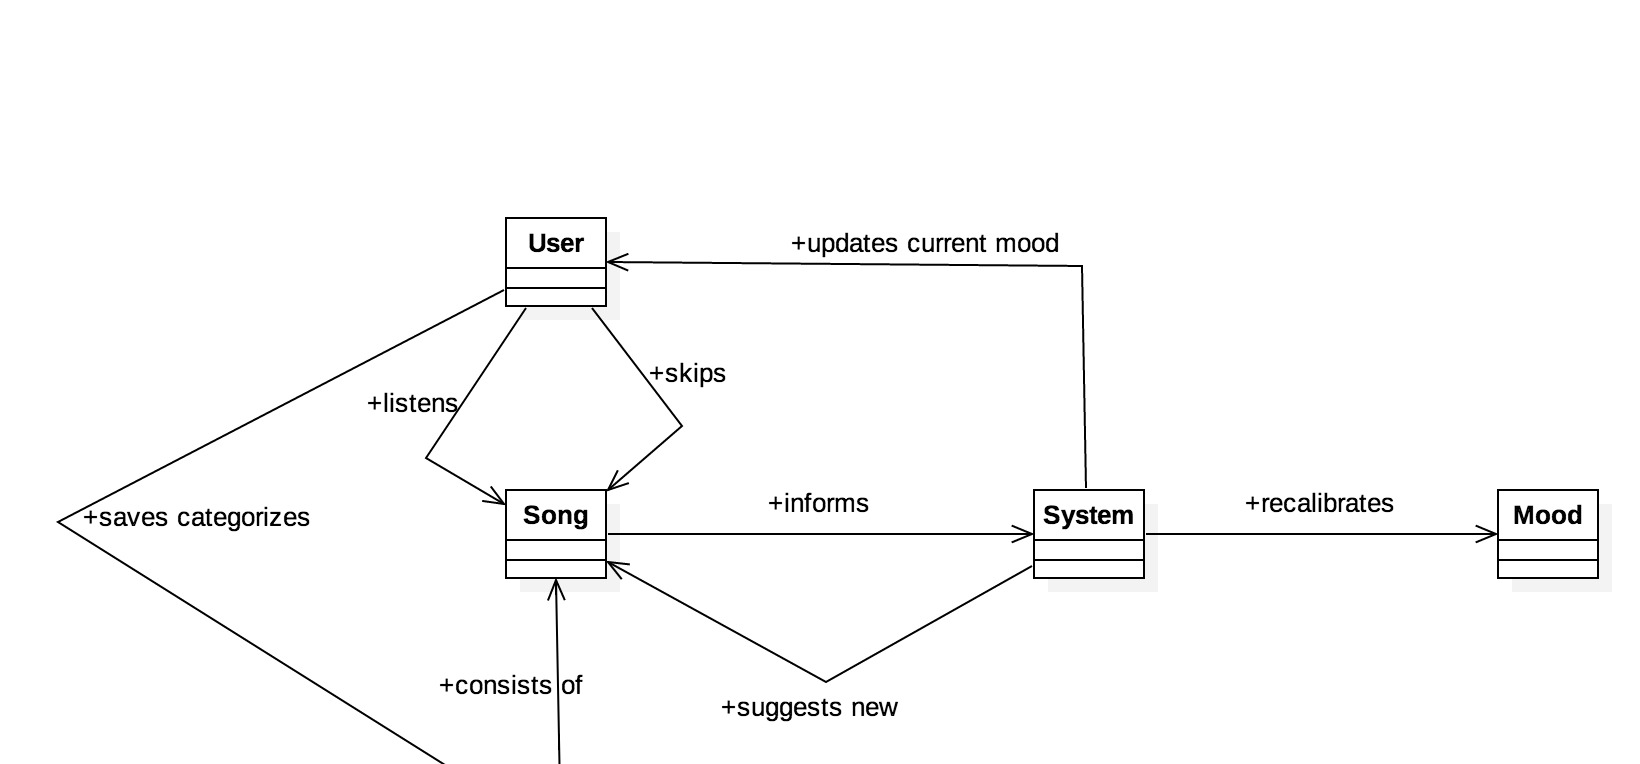
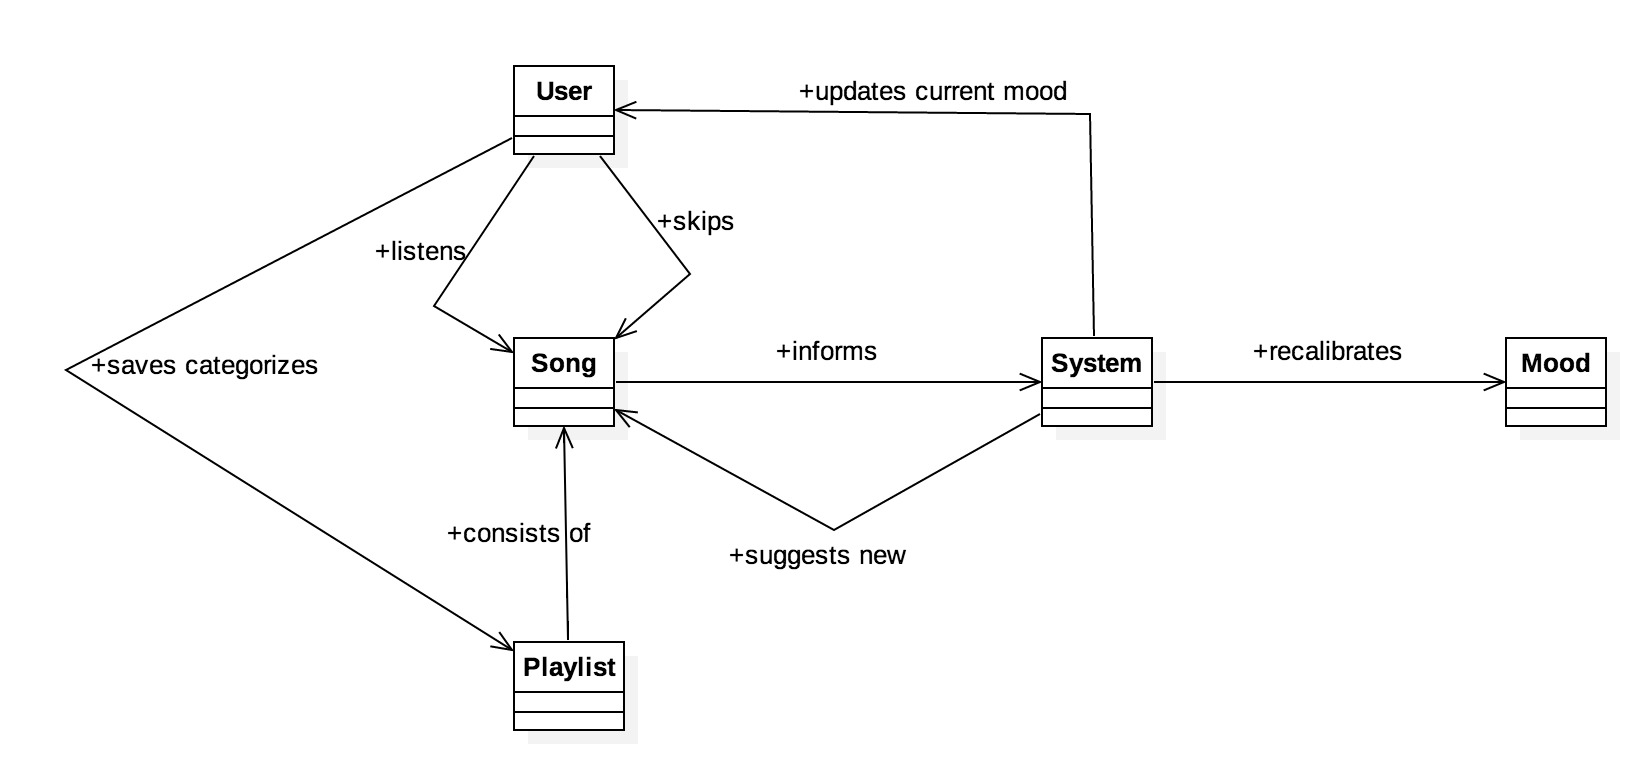
updated UML diagram

diff --git a/REQUIREMENTS.md b/REQUIREMENTS.md
@@ -1,5 +1,6 @@
-# End-User Observation
-## Persona #1: Amora Lyssa
+# Smoodify: a mood-based music player
+## End-User Observation
+### Persona #1: Amora Lyssa
 Amora is a senior in college studying Media and Communications. She is particularly interested in film and television, with a focus on animation. Her favorite genres of music are alternative rock, pop, and pop rock. Her favorite bands are Panic! at the Disco and Gorillaz.
 
 Amora listens to music both very passively but also selectively. When she’s walking down the street, she’ll listen to her Spotify saved music on shuffle without selecting. But when she sits down, she focuses on the song, hand-picking it. She doesn’t just let the music play: she’ll have a base of a couple songs, and from there she’ll select more songs to queue up. Occasionally her songs will sway her emotion, and she’ll get really into them. She is “very specific about [her] music,” making playlists to get ready to for a night out or to show her friends.
@@ -8,7 +9,7 @@ Amora finds that the beat and rhythm of a song affects her emotions in a much de
 
 Smoodify would definitely enhance Amora’s music listening habits. The fact that she values music over lyrics hints at how instinctual, and, therefore, emotional, of an experience listening to music is for her. The ability to save playlists generated by a mood would facilitate the process she already goes through, and the choice to “spam” a song is still available - except now she can choose to use that song as a base to generate a mood playlist.
 
-# Use Cases
+## Use Cases
 
 **Title:** Listen to Music/Receive shuffled music according to User’s mood
 **Actor:** The User (Customer)
@@ -32,11 +33,11 @@ Smoodify would definitely enhance Amora’s music listening habits. The fact tha
 **Actor:** Developer (Us)
 **Scenario:** Developer keeps in constant contact with the Stakeholder to understand Stakeholder’s vision for the System. Developer (following this vision) creates the System. Developer checks with the Stakeholder with the finished System. Developer releases the System to its End-User. Developer receives feedback from its Users. Developer continues to update its System.
 
-## Use Case Diagram
+### Use Case Diagram
 
 ![Use Case UML Diagram](diagrams/use_cases.jpg)
 
 
-# Domain Modeling
+## Domain Modeling
 
 ![UML Diagram](diagrams/UML.jpg)
